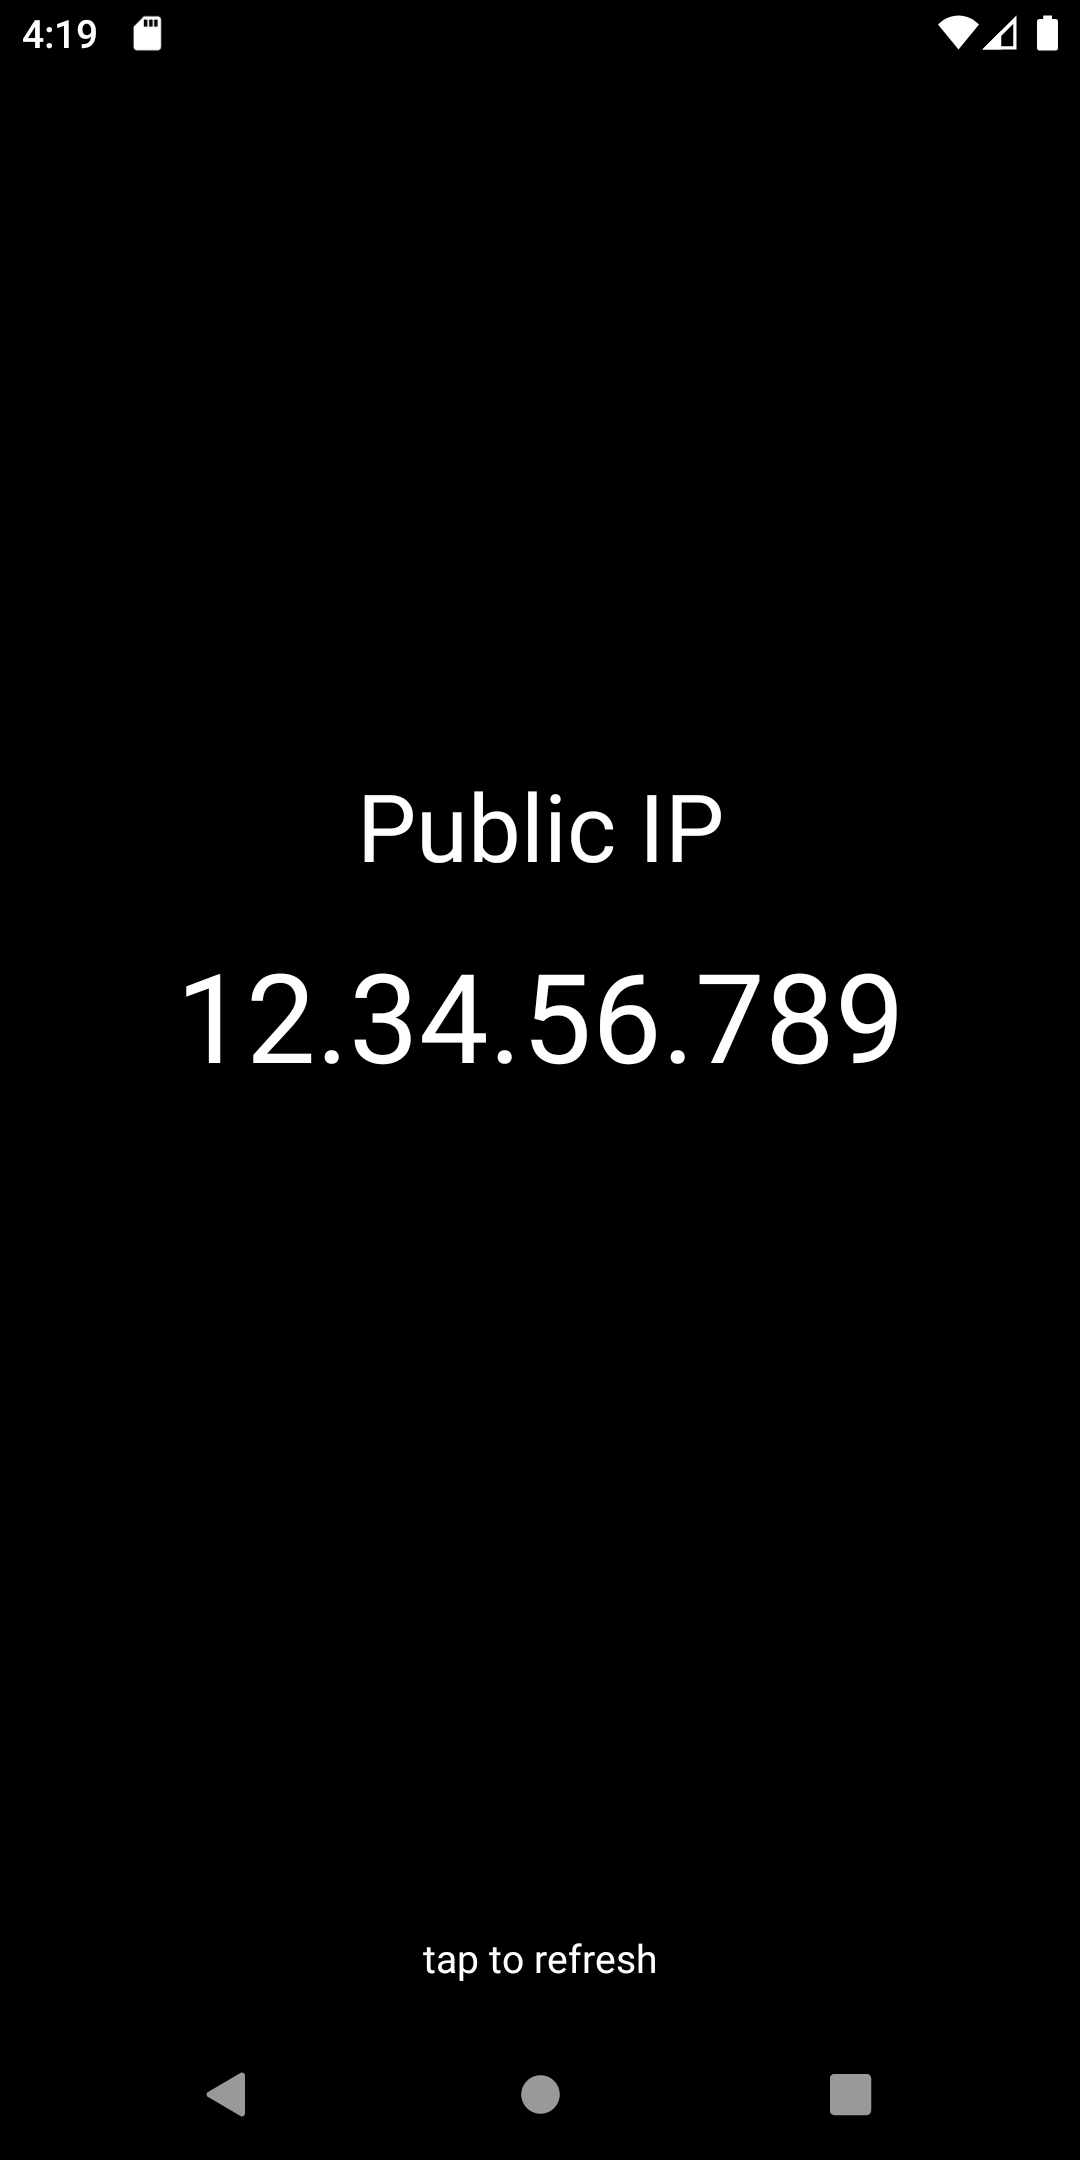
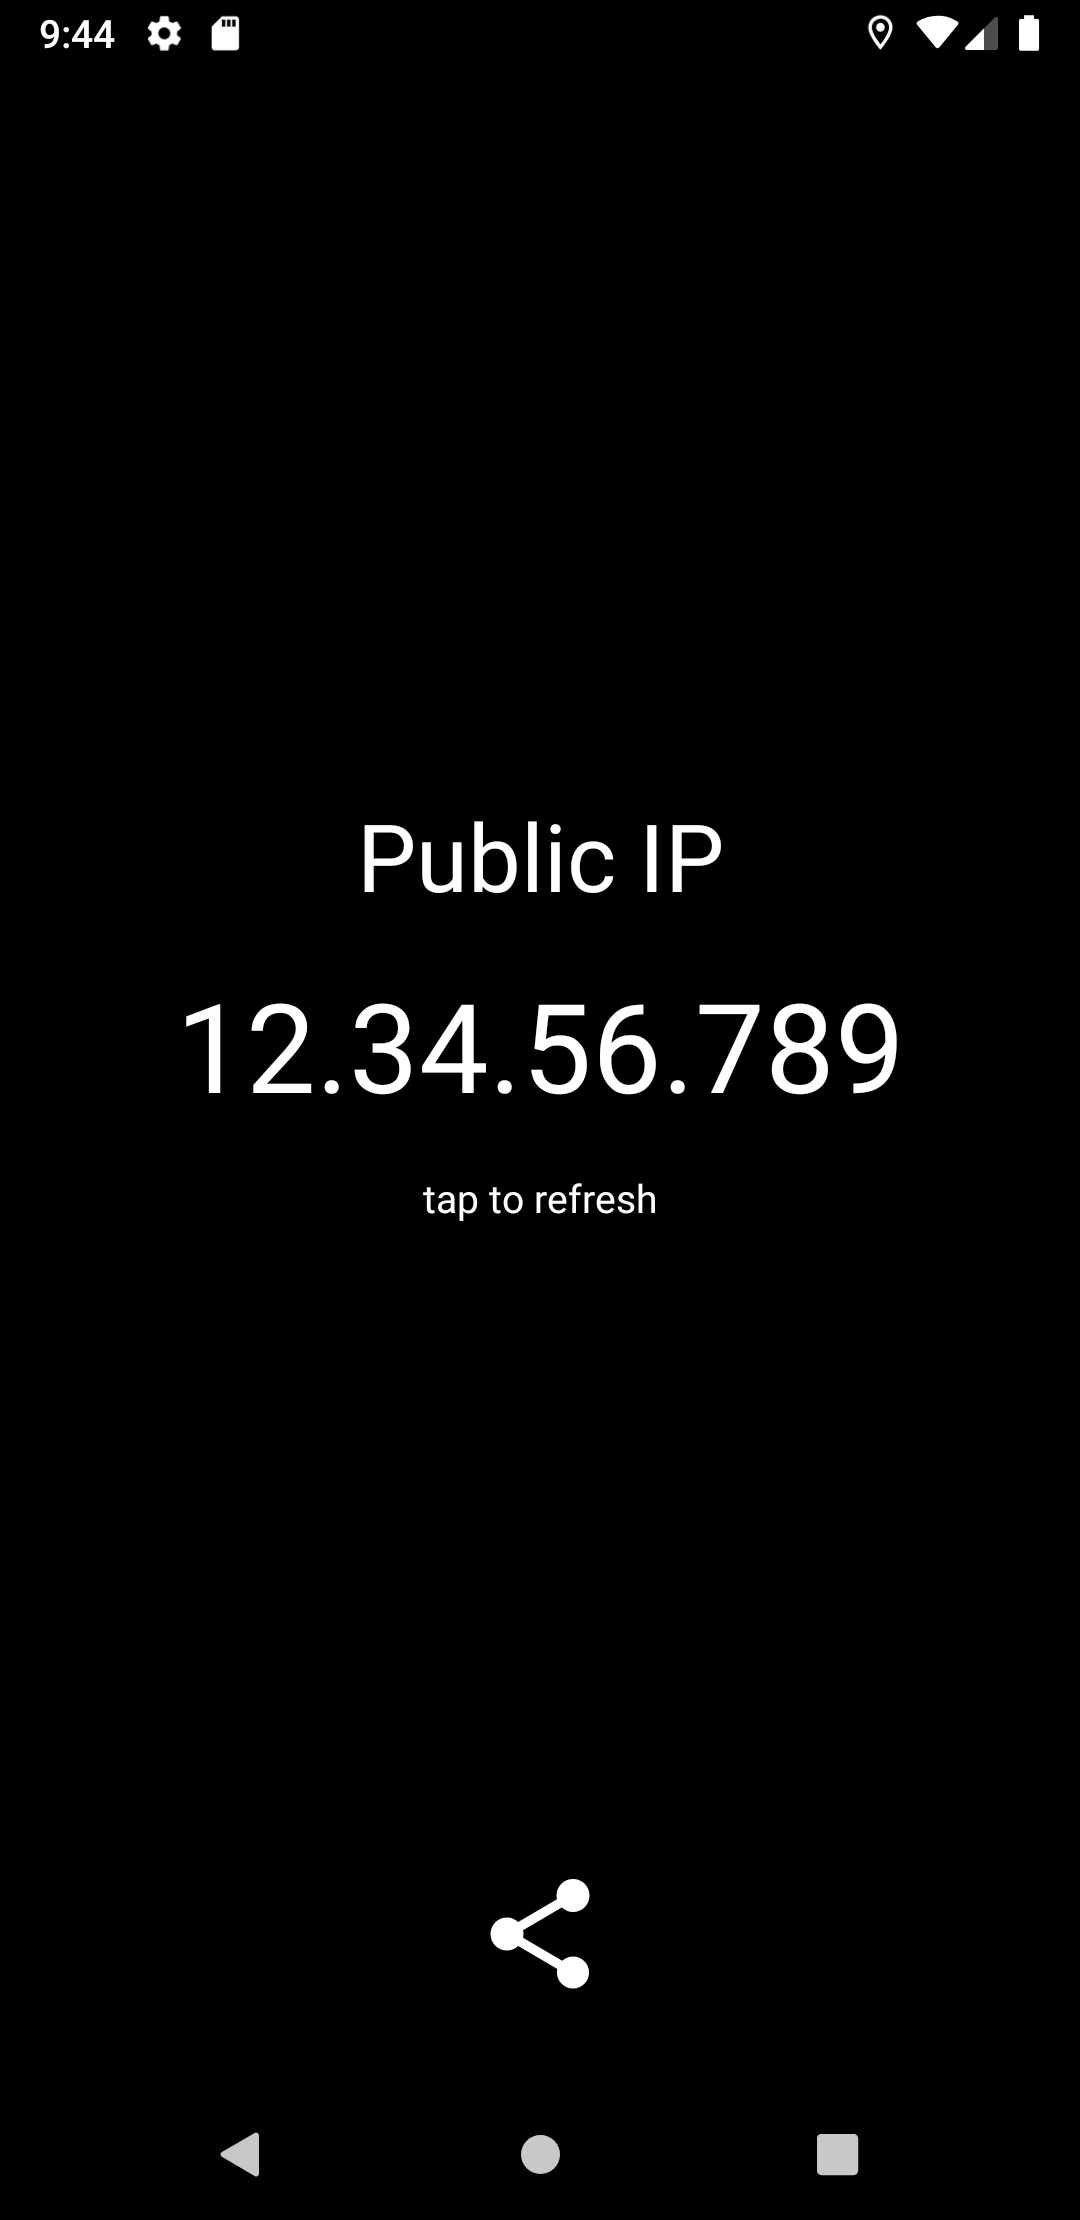
Added share capability from application

diff --git a/app/src/main/java/net/guildem/publicip/PublicIpActivity.kt b/app/src/main/java/net/guildem/publicip/PublicIpActivity.kt
@@ -1,5 +1,6 @@
 package net.guildem.publicip
 
+import android.content.Intent
 import android.graphics.Color
 import android.os.Build
 import android.os.Bundle
@@ -7,10 +8,8 @@ import android.view.View
 import android.view.WindowManager
 import androidx.appcompat.app.AppCompatActivity
 import androidx.lifecycle.Observer
-import androidx.work.WorkInfo
 import androidx.work.WorkManager
 import kotlinx.android.synthetic.main.public_ip_activity.*
-
 
 class PublicIpActivity : AppCompatActivity() {
 
@@ -28,6 +27,8 @@ class PublicIpActivity : AppCompatActivity() {
         }
 
         view_layout.setOnClickListener { refreshData() }
+
+        share_button.setOnClickListener { shareData() }
     }
 
     override fun onResume() {
@@ -41,9 +42,21 @@ class PublicIpActivity : AppCompatActivity() {
         val worker = PublicIpWorker.getWorker()
 
         manager.getWorkInfoByIdLiveData(worker.id)
-            .observe(this, Observer<WorkInfo> { refreshView() })
+            .observe(this, Observer { refreshView() })
 
         manager.enqueue(worker)
+    }
+
+    private fun shareData() {
+        val data = PublicIpData(this)
+        val shareText = data.loadCurrentIp() ?: getString(R.string.ip_not_found)
+        val sendIntent: Intent = Intent().apply {
+            action = Intent.ACTION_SEND
+            putExtra(Intent.EXTRA_TEXT, shareText)
+            type = "text/plain"
+        }
+
+        startActivity(Intent.createChooser(sendIntent, getString(R.string.share_my_ip)))
     }
 
     private fun refreshView() {

diff --git a/CHANGELOG.md b/CHANGELOG.md
@@ -4,6 +4,13 @@ All notable changes to this project will be documented in this file.
 The format is based on [Keep a Changelog](https://keepachangelog.com/en/1.0.0/),
 and this project adheres to [Semantic Versioning](https://semver.org/spec/v2.0.0.html).
 
+## [1.1.0] - 2020-04-29
+### Added
+- Share my IP from the application
+
+### Fixed
+- Removed a useless permission
+
 ## [1.0.1] - 2019-11-28
 ### Added
 - Auto retry when a network is found (only if disconnected before).
@@ -21,6 +28,7 @@ and this project adheres to [Semantic Versioning](https://semver.org/spec/v2.0.0
 - IP finder with [ipify API][ipify],
 - Application icon based on the work of [Eugenio Hansen][globe], licensed under [CC BY-SA 3.0].
 
+[1.1.0]: https://github.com/guildem/publicip-android/releases/tag/1.1.0
 [1.0.1]: https://github.com/guildem/publicip-android/releases/tag/1.0.1
 [1.0.0]: https://github.com/guildem/publicip-android/releases/tag/1.0.0
 
